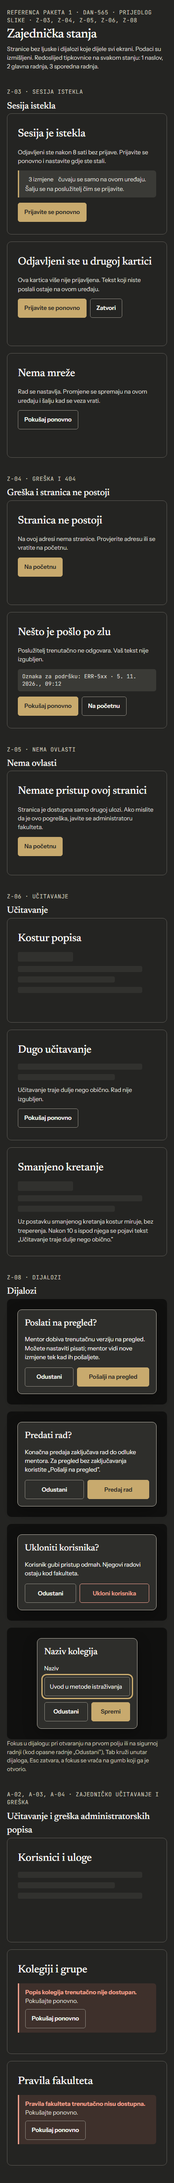
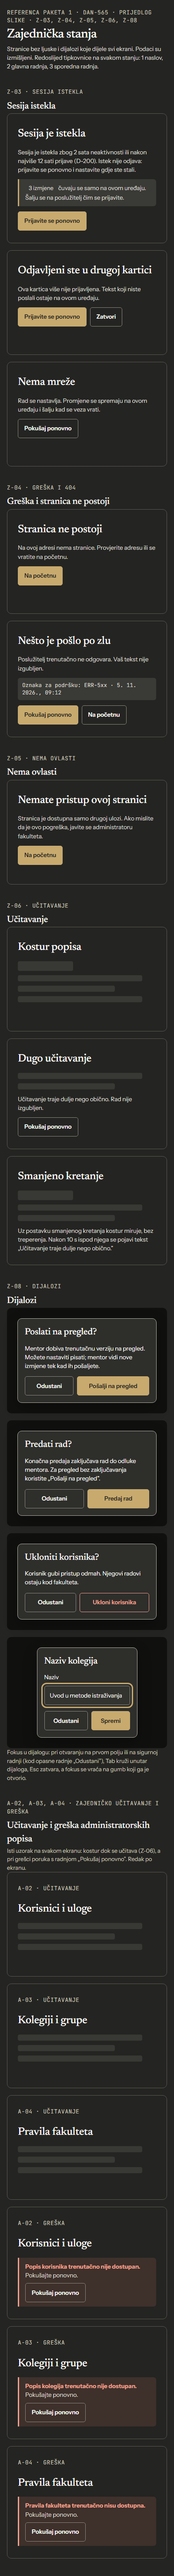
docs: align session expiry text with D-200 and show A-03, A-04 loading (DAN-565)
Claude-Session: https://claude.ai/code/session_01N1HowT4JEmWPus261RPqtk

diff --git a/docs/design/ductura/zajednicko-reference/zajednicka-stanja.html b/docs/design/ductura/zajednicko-reference/zajednicka-stanja.html
@@ -20,7 +20,7 @@
   <div class="grid">
     <div class="frame" role="alert">
       <h3>Sesija je istekla</h3>
-      <p>Odjavljeni ste nakon 8 sati bez prijave. Prijavite se ponovno i nastavite gdje ste stali.</p>
+      <p>Sesija je istekla zbog 2 sata neaktivnosti ili nakon najviše 12 sati prijave (D-200). Istek nije odjava: prijavite se ponovno i nastavite gdje ste stali.</p>
       <p class="status"><span class="chip">3 izmjene</span> čuvaju se samo na ovom uređaju. Šalju se na poslužitelj čim se prijavite.</p>
       <div class="row"><a class="btn" href="#">Prijavite se ponovno</a></div>
     </div>
@@ -121,10 +121,14 @@
 <section aria-labelledby="zA">
   <div class="ref-tag">A-02, A-03, A-04 · zajedničko učitavanje i greška</div>
   <h2 id="zA">Učitavanje i greška administratorskih popisa</h2>
+  <p class="meta">Isti uzorak na svakom ekranu: kostur dok se učitava (Z-06), a pri grešci poruka s radnjom „Pokušaj ponovno”. Redak po ekranu.</p>
   <div class="grid">
-    <div class="frame" aria-busy="true"><h3>Korisnici i uloge</h3><div class="sk" role="status"><span class="sr">Učitavanje popisa korisnika…</span><i class="w2"></i><i class="w3"></i><i class="w2"></i></div></div>
-    <div class="frame"><h3>Kolegiji i grupe</h3><p class="alert" role="alert"><strong>Popis kolegija trenutačno nije dostupan.</strong> Pokušajte ponovno. <a class="btn secondary" href="#">Pokušaj ponovno</a></p></div>
-    <div class="frame"><h3>Pravila fakulteta</h3><p class="alert" role="alert"><strong>Pravila fakulteta trenutačno nisu dostupna.</strong> Pokušajte ponovno. <a class="btn secondary" href="#">Pokušaj ponovno</a></p></div>
+    <div class="frame" aria-busy="true"><div class="ref-tag">A-02 · učitavanje</div><h3>Korisnici i uloge</h3><div class="sk" role="status"><span class="sr">Učitavanje popisa korisnika…</span><i class="w2"></i><i class="w3"></i><i class="w2"></i></div></div>
+    <div class="frame" aria-busy="true"><div class="ref-tag">A-03 · učitavanje</div><h3>Kolegiji i grupe</h3><div class="sk" role="status"><span class="sr">Učitavanje popisa kolegija…</span><i class="w2"></i><i class="w3"></i><i class="w2"></i></div></div>
+    <div class="frame" aria-busy="true"><div class="ref-tag">A-04 · učitavanje</div><h3>Pravila fakulteta</h3><div class="sk" role="status"><span class="sr">Učitavanje pravila fakulteta…</span><i class="w2"></i><i class="w3"></i><i class="w2"></i></div></div>
+    <div class="frame"><div class="ref-tag">A-02 · greška</div><h3>Korisnici i uloge</h3><p class="alert" role="alert"><strong>Popis korisnika trenutačno nije dostupan.</strong> Pokušajte ponovno. <a class="btn secondary" href="#">Pokušaj ponovno</a></p></div>
+    <div class="frame"><div class="ref-tag">A-03 · greška</div><h3>Kolegiji i grupe</h3><p class="alert" role="alert"><strong>Popis kolegija trenutačno nije dostupan.</strong> Pokušajte ponovno. <a class="btn secondary" href="#">Pokušaj ponovno</a></p></div>
+    <div class="frame"><div class="ref-tag">A-04 · greška</div><h3>Pravila fakulteta</h3><p class="alert" role="alert"><strong>Pravila fakulteta trenutačno nisu dostupna.</strong> Pokušajte ponovno. <a class="btn secondary" href="#">Pokušaj ponovno</a></p></div>
   </div>
 </section>
 </main>

diff --git a/docs/design/ductura/zajednicko-reference/README.md b/docs/design/ductura/zajednicko-reference/README.md
@@ -15,12 +15,12 @@ Prijedlog slike, bez produktnog koda. Spajanje ove mape vlasnikovom porukom „S
 
 | Ekran | Stanja |
 | --- | --- |
-| Z-03 | sesija istekla (uz izmjene samo na uređaju), odjavljen u drugoj kartici, bez mreže |
+| Z-03 | sesija istekla (2 sata neaktivnosti ili najviše 12 sati, D-200; istek nije odjava; uz izmjene samo na uređaju), odjavljen u drugoj kartici, bez mreže |
 | Z-04 | stranica ne postoji, greška poslužitelja s oznakom za podršku |
 | Z-05 | nema ovlasti |
 | Z-06 | kostur popisa, dugo učitavanje, smanjeno kretanje (kostur miruje) |
 | Z-08 | slanje na pregled (nastavak pisanja dopušten), konačna predaja (zaključava rad), opasna radnja, dijalog s poljem (fokus u dijalogu) |
-| A-02, A-03, A-04 | učitavanje (A-02), greška (A-03, A-04); ostala stanja ostaju u m2-reference |
+| A-02, A-03, A-04 | učitavanje i greška za svaki od tri ekrana (šest okvira); ostala stanja ostaju u m2-reference |
 | Fokus | prsten 3 px / razmak 4 px, preskok na sadržaj, fokus nije zaklonjen (WCAG 2.2, 2.4.11), redoslijed tipkovnice 1 do 5 |
 
 ## Snimke
